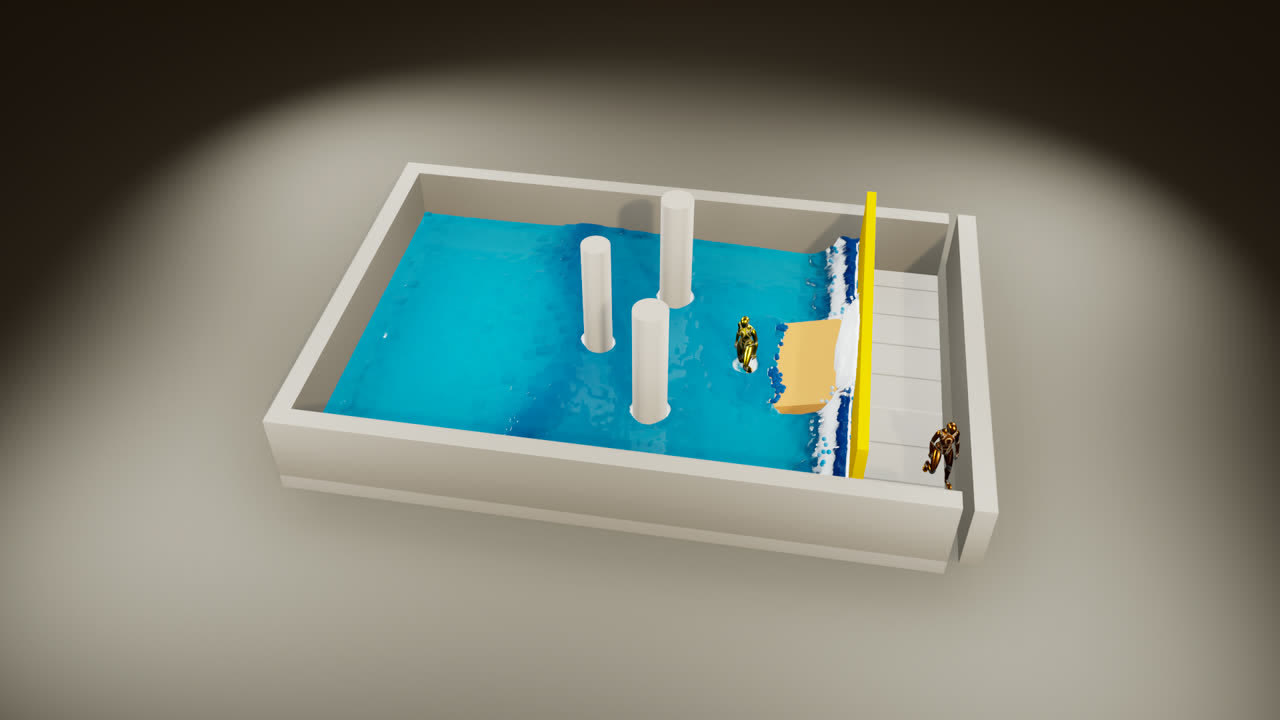
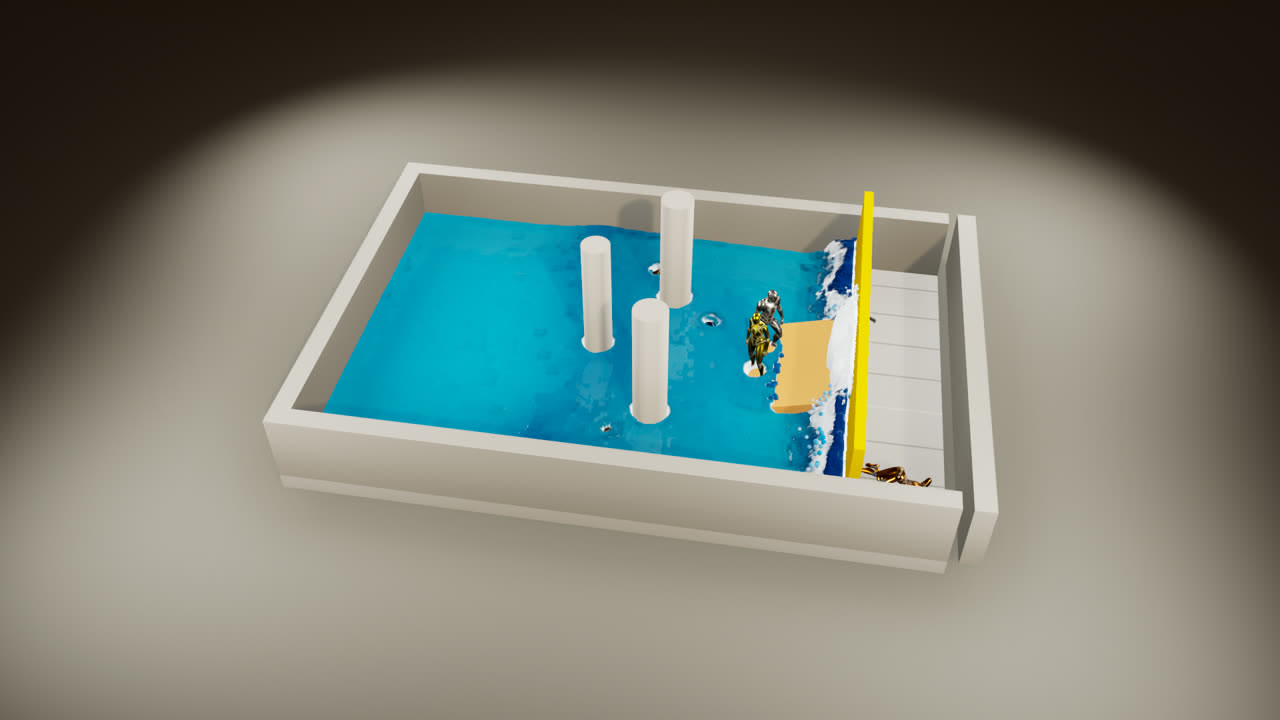
Pause the game while a clip frame is written, instead of slowing it down
record() held the game between shots with fixed 10-microsecond frames.
Chaos solves a ragdoll's joints by position and turns the corrections into
velocities over the frame time: with frames that short a mannequin going
limp got huge velocities and its limbs were flung metres apart in a few
frames, which the clips showed as stretched mannequins and long lines across
the picture. The game is now paused while a shot is written (it renders,
nothing simulates). New fluid and playtest clips and images.

diff --git a/Python/examples/stage.py b/Python/examples/stage.py
@@ -521,18 +521,23 @@ async def record(
         old.unlink()
     count = round(seconds * fps)
     started = time.perf_counter()
-    # Each clip frame: one engine frame of exactly one clip step, then the shot, written while the game
-    # barely moves (a fixed time step of 10 microseconds), so every shot is one clip step after the last
-    # however long the 1080p PNG takes.
+    # Each clip frame: one engine frame of exactly one clip step, then the shot, written while the game is
+    # paused (it renders, nothing moves), so every shot is one clip step after the last however long the
+    # 1080p PNG takes. Paused, not slowed down: frames of a few microseconds made physics unstable (a
+    # ragdoll's joint solver turned its corrections into huge velocities and flung the limbs apart).
     step = game_speed / fps
+    world = ue.get_world()
+    agent.set_fixed_timestep(step)
     try:
         for index in range(count):
-            agent.set_fixed_timestep(step)
             await agent.frames(1)
             if on_step is not None:
                 on_step(step)
-            agent.set_fixed_timestep(1e-5)
-            await film.shoot(folder / f"frame_{index:05d}.png")
+            ue.GameplayStatics.set_game_paused(True, world_context_object=world)
+            try:
+                await film.shoot(folder / f"frame_{index:05d}.png")
+            finally:
+                ue.GameplayStatics.set_game_paused(False, world_context_object=world)
     finally:
         agent.set_fixed_timestep(None)
     return {

diff --git a/Python/examples/fluid/game.py b/Python/examples/fluid/game.py
@@ -138,8 +138,8 @@ class FluidMode(ue.GameModeBase):
             for index, wader in enumerate(self.waders):
                 wader.dress(quinn=index % 2 == 1, tint=TINTS[index % len(TINTS)])
             self.dressed = True
-        if not self.running or delta_seconds < 1.0e-3:
-            return  # (a recording holds the game with 10 microsecond frames while it writes a shot)
+        if not self.running:
+            return
         started = time.perf_counter()
         # Last frame's results (copied to the host while the GPU went on), then this frame's step: the game
         # thread never waits for the kernels it has just launched.
